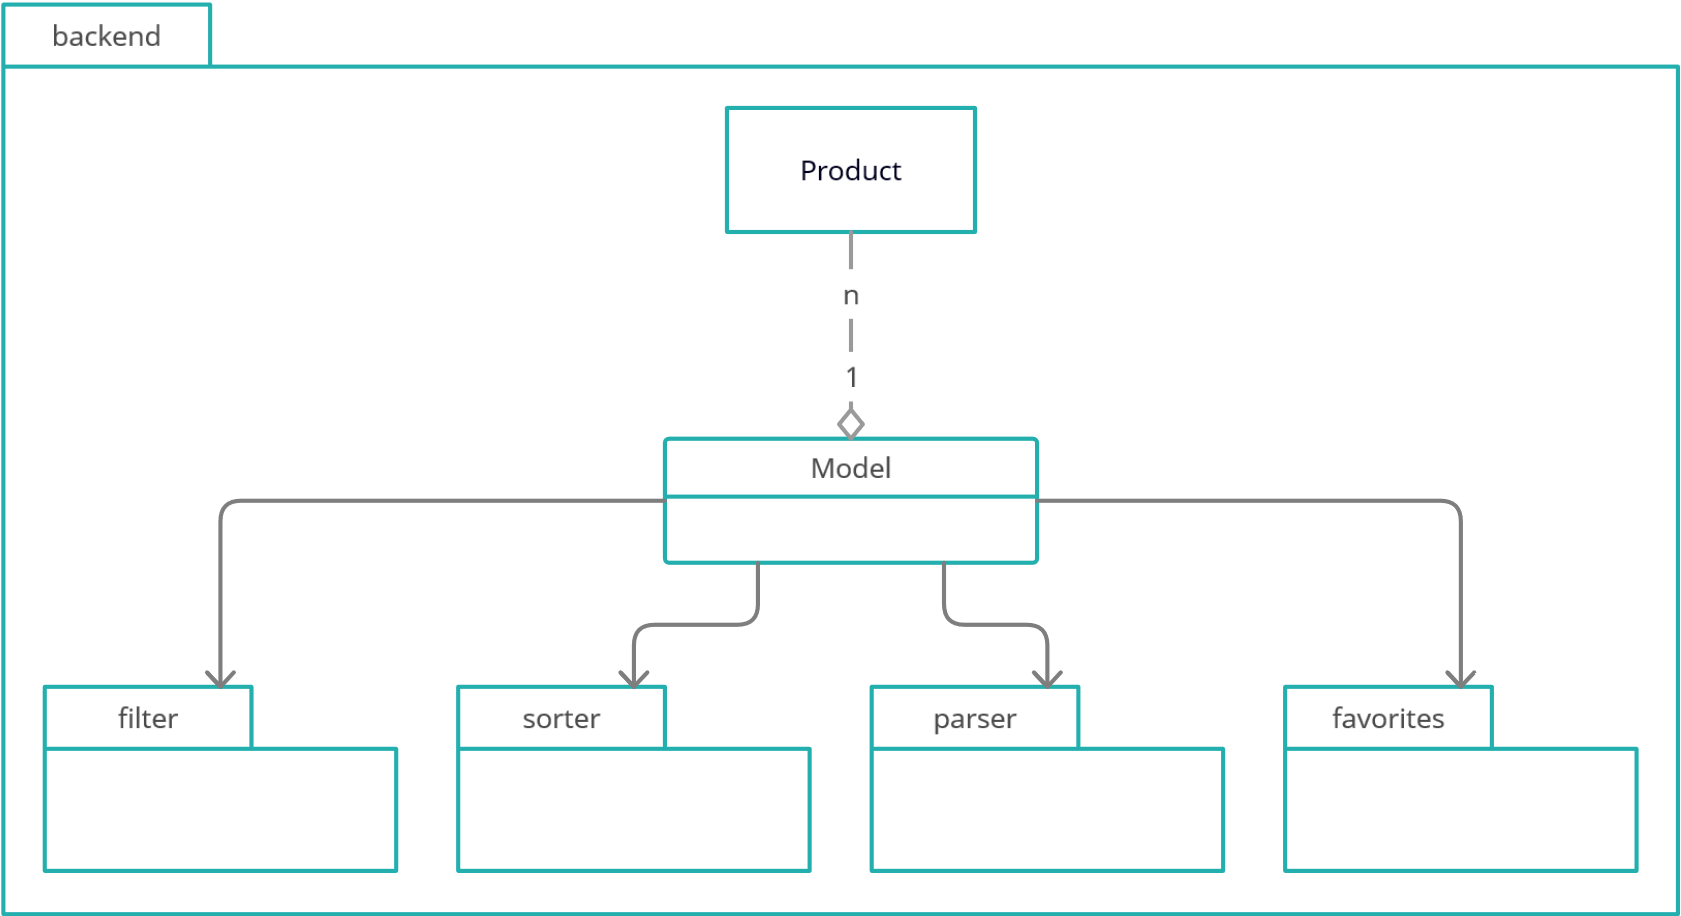
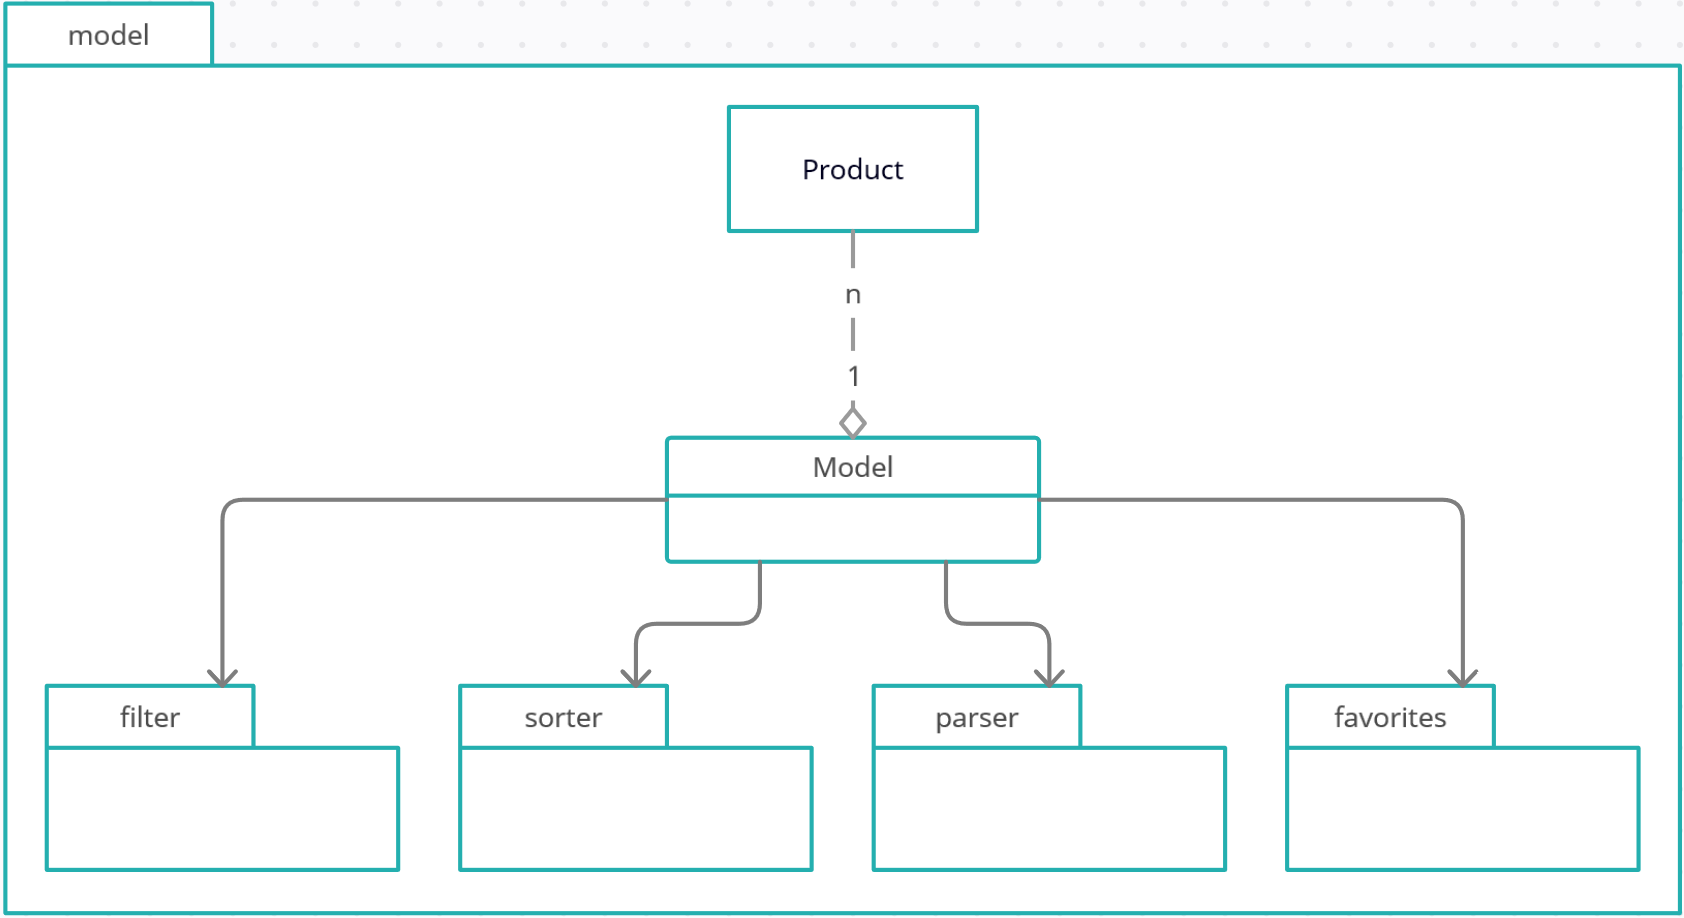
add description for Sorter class and update picture for package diagram

diff --git a/documents/assignments/sdd.md b/documents/assignments/sdd.md
@@ -72,10 +72,12 @@ The user will be able to close the program at any point in the process.
 ### Package Diagram
 
 ![PackageDiagramAll](Photos/PackageDiagramBig.png)
+
 This package digram shows the entirety of the program in it's biggest package model. The uml shows that Model,view,controller structure i followed. 
 
 #### Model
-![PackageDiagramModel](Photos/PackageDiagramModel.png)
+![PackageDiagramModel](Photos/PackagediagramModel.png)
+
 The model package is responsible for handling the logic and handling all the data that the program saves or represents for the user. The features implemented in the model right now is, - filter, filters all the products
 
 - Favorites, saves products as favorites
@@ -133,7 +135,7 @@ Domain model represents the program in a more abstract format. The program will 
 - **Model**
 
  ![ModelDesign](Photos/ModelDesignUML.png)  
-  This module is the Facade pattern, it provides a simpler interface to a complex subsystem. this will be the only connection that is accessible outside of the model package.
+  This module is the Facade pattern, it provides a simpler interface to a complex subsystem. this will be the only connection that is accessible outside the model package.
   The model uses all the different packages of the backend and represents a simpler way of using them.  
   
   Relation to Domain model
@@ -193,6 +195,15 @@ This keeps track of the Favorite products that is also represented in the Domain
 Future implementations  
 
 `- Composite`  
+
+- **Sorter**
+
+![SorterDesign](Photos/SorterDesignUML.png)
+
+The Sorter class is used for sorting a given list of products based on a given attribute. By passing a function, i.e. a getter for a price, the passed list gets sorted based on price.
+
+Relation to Domain model   
+The Sorter is responsible for how the list of Products is ordered and is therefore connected to the Sortiment in the domain model.
 	
 ### Sequence Diagrams
 #### Get Selection of products
@@ -223,6 +234,7 @@ Testing the application is done with [JUnit](#JUnit), and the test classes can b
 
 #### Dependency matrix
 This matrix displays all dependencies in the project, marking cyclic dependencies in red.
+_NOTE for peer review: we're unsure on what software to use for analysing dependencies, tips are very appreciated here!_
 ![Dependency matrix](Photos/dependency_matrix.png)
 
 #### Quality report
